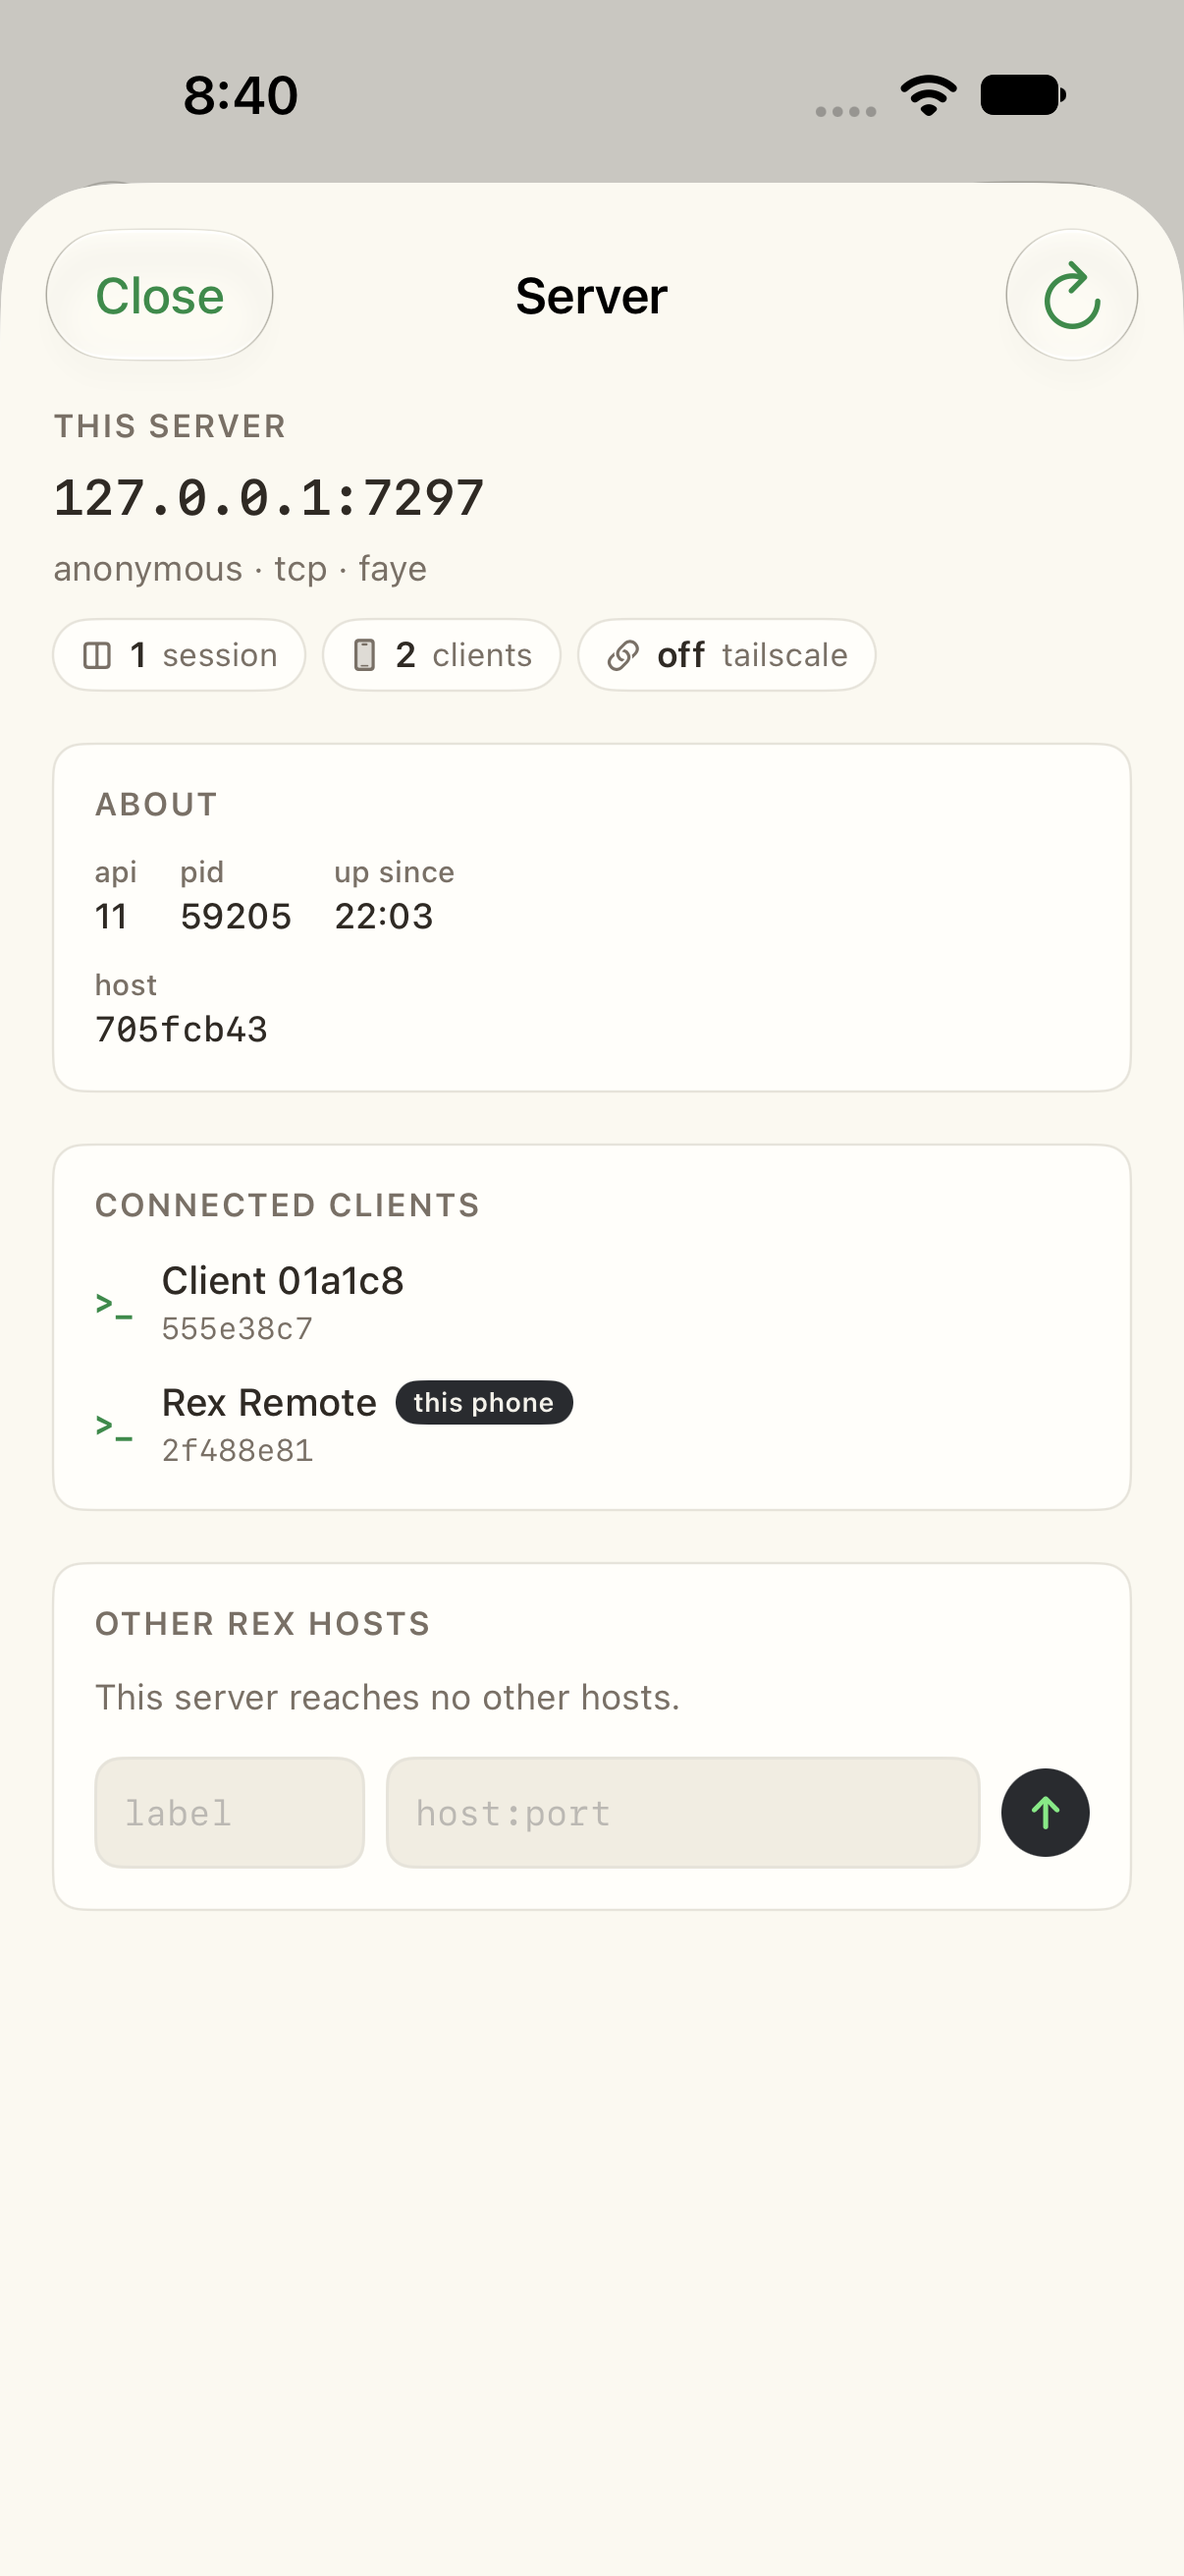
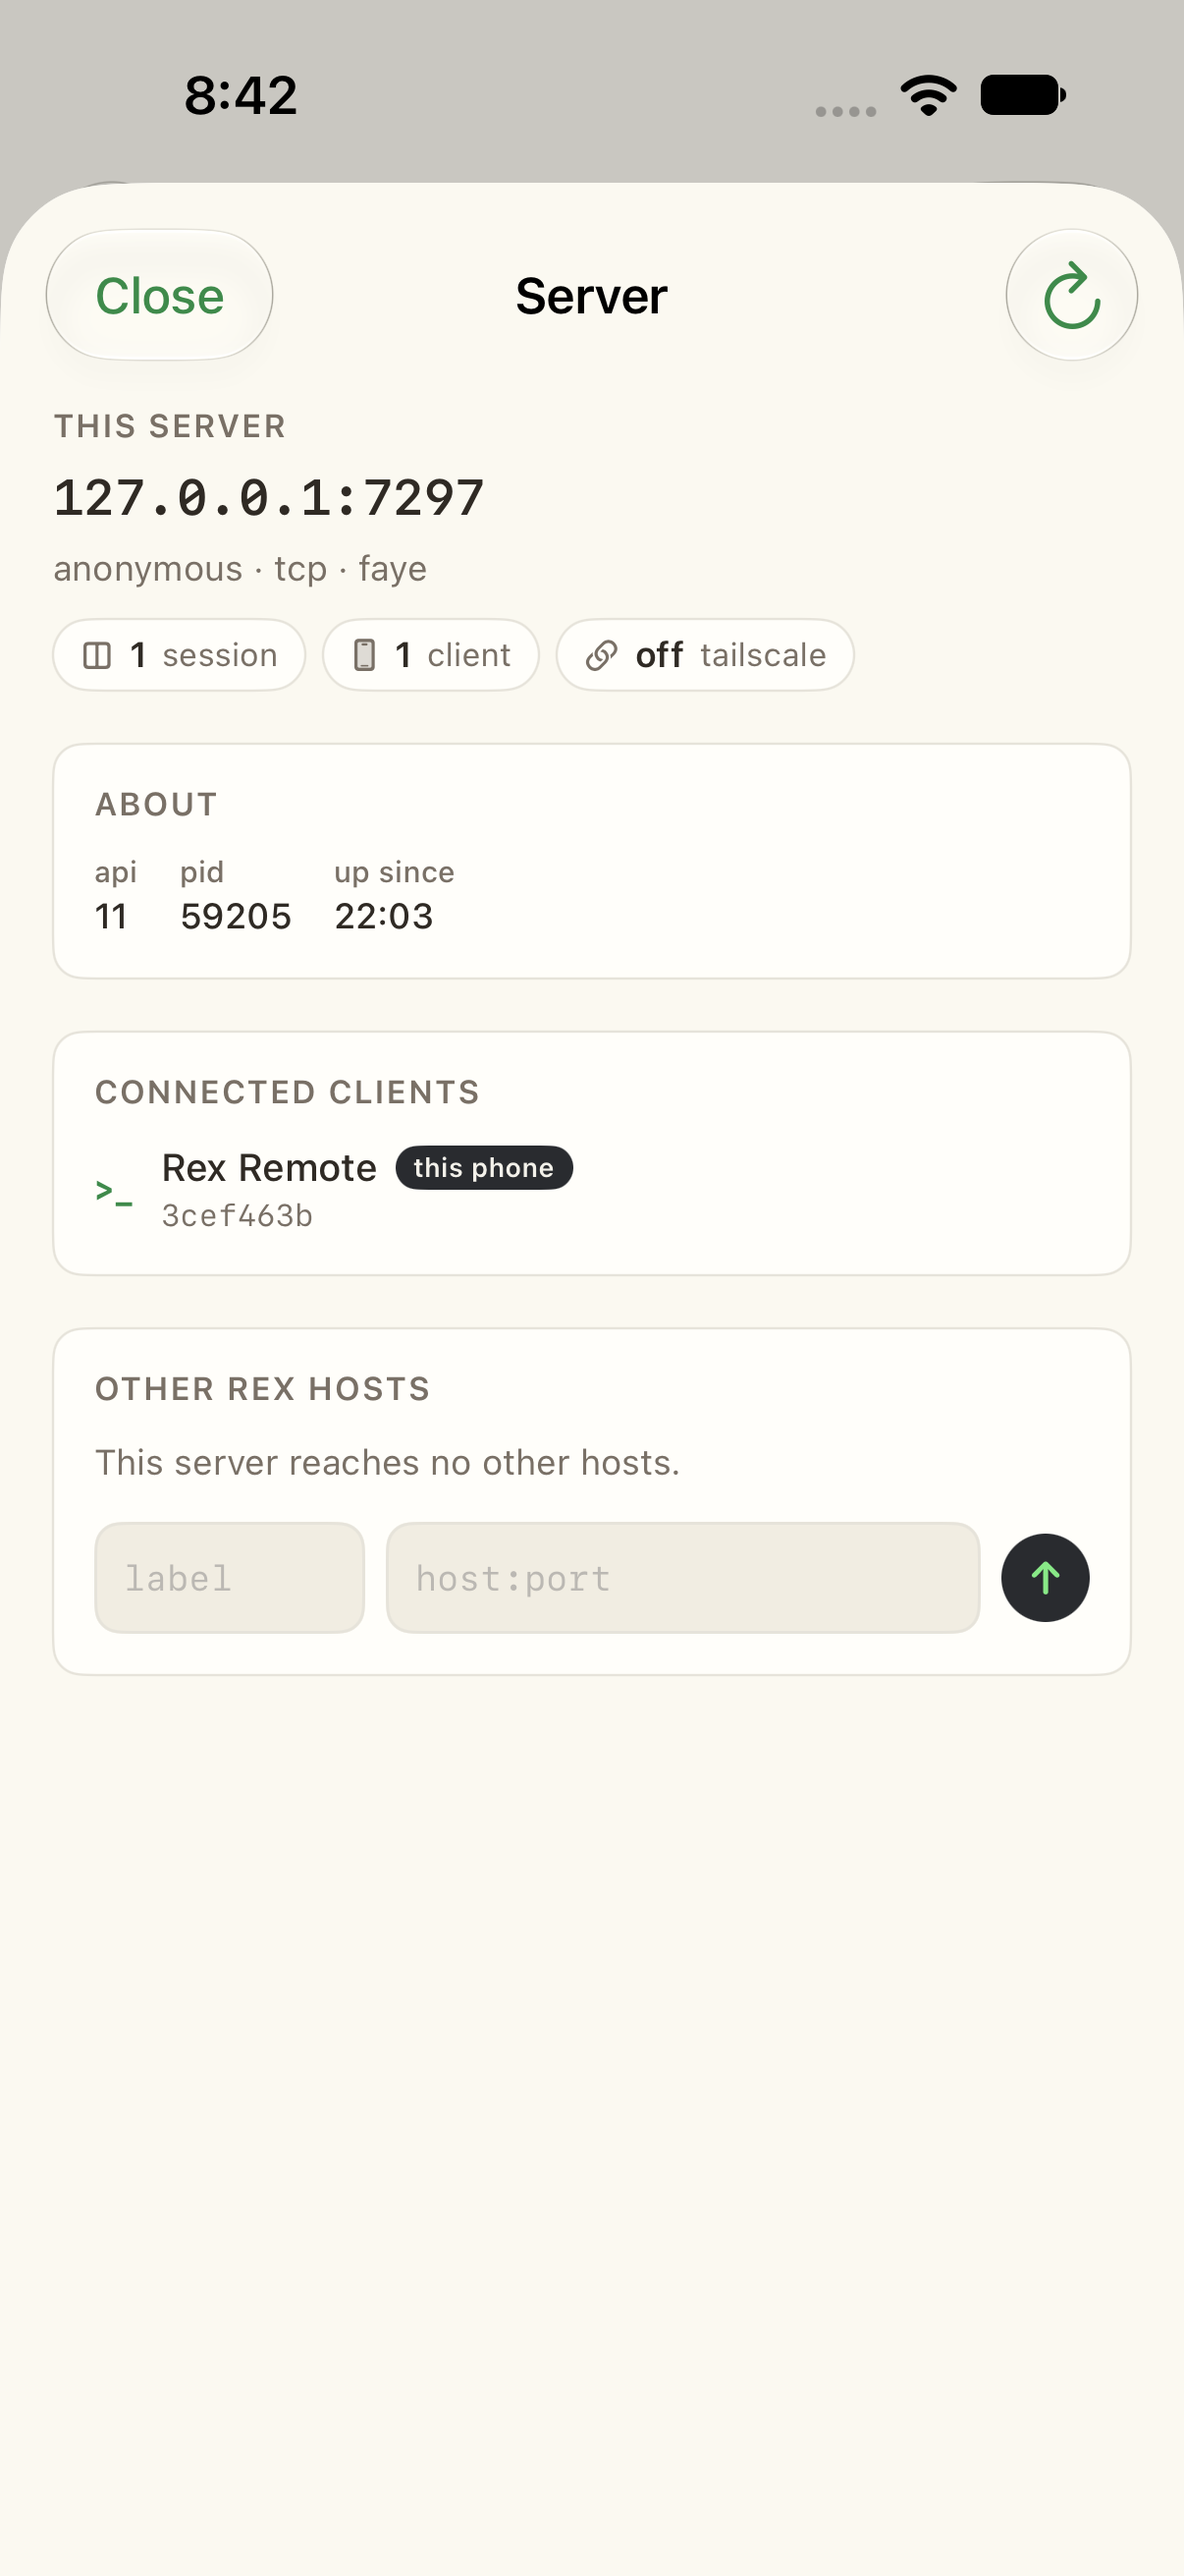
Drop the host id from the server sheet

diff --git a/RexRemote/Views/ServerSheet.swift b/RexRemote/Views/ServerSheet.swift
@@ -127,9 +127,6 @@ struct ServerSheet: View {
                         fact("up since", started)
                     }
                 }
-                if let hostID = info.hostID {
-                    fact("host", String(hostID.prefix(8)), mono: true)
-                }
             } else {
                 Text("server.status unavailable on this server.")
                     .font(.footnote)
@@ -141,13 +138,13 @@ struct ServerSheet: View {
         .rexCard()
     }
 
-    private func fact(_ label: String, _ value: String, mono: Bool = false) -> some View {
+    private func fact(_ label: String, _ value: String) -> some View {
         VStack(alignment: .leading, spacing: 2) {
             Text(label)
                 .font(.system(size: 10, weight: .medium))
                 .foregroundStyle(RexTheme.secondaryInk)
             Text(value)
-                .font(mono ? RexTheme.mono(12, weight: .medium) : .system(size: 12, weight: .medium))
+                .font(.system(size: 12, weight: .medium))
                 .foregroundStyle(RexTheme.ink)
         }
     }
